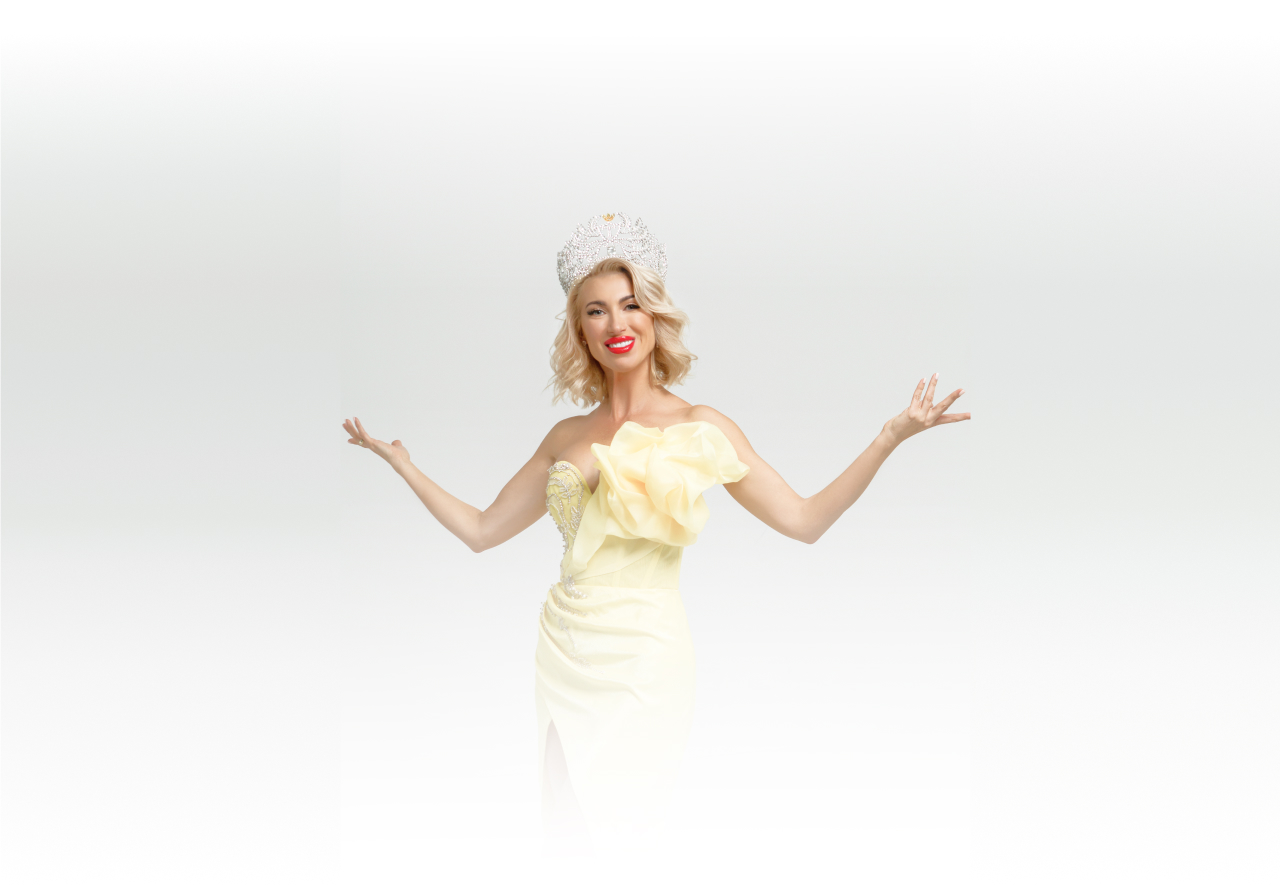
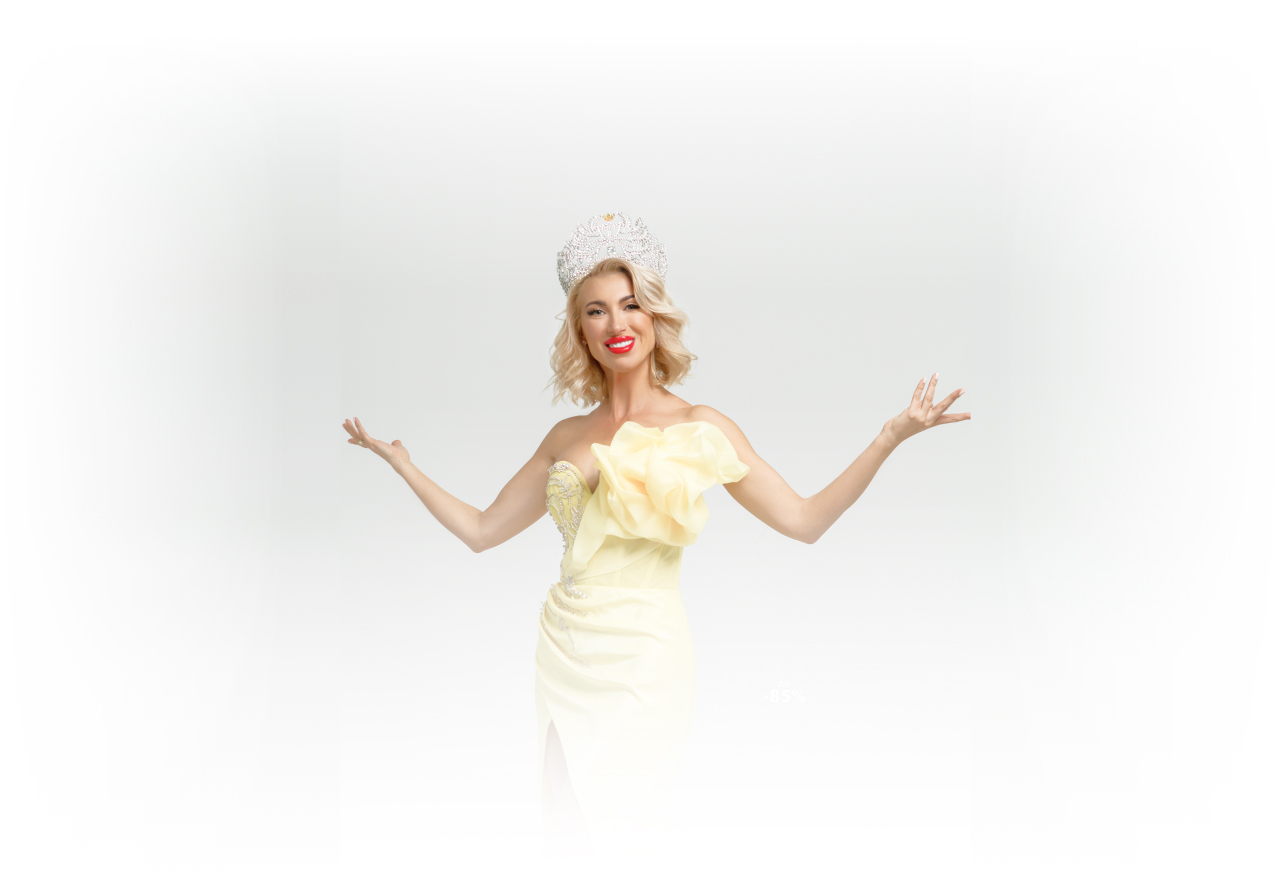
update bg images and footer links

Changed region(s): [[0.0, 0.2133, 0.0938, 0.6095], [0.9688, 0.3047, 1.0, 0.4876]]

diff --git a/index.html b/index.html
@@ -770,14 +770,27 @@
     <footer class="footer">
       <div class="container">
         <div class="footer-deals">
-          <a class="link" target="_blank" rel="nofollow" href=""
+          <a
+            class="link"
+            target="_blank"
+            rel="nofollow"
+            href="https://docs.google.com/document/d/1Hmw1FsmPEBwldCEDwg0LvOVN5a8oJckbykgEmNQICwI/edit?usp=sharing"
             >Договір оферта</a
-          ><a class="link" target="_blank" rel="nofollow" href=""
+          ><a
+            class="link"
+            target="_blank"
+            rel="nofollow"
+            href="https://docs.google.com/document/d/1gO9E59EHsQaLDXJgr1hZTJvAWlnz82-r5cY-q0cy3MQ/edit?usp=sharing"
             >Політика конфіденційності</a
           >
         </div>
         <div class="social-container">
-          <a class="link" href="" target="_blank" rel="nofollow">
+          <a
+            class="link"
+            href="https://www.instagram.com/natalyasentimrey"
+            target="_blank"
+            rel="nofollow"
+          >
             <img
               src="./images/footer-insta.svg"
               alt="insta"
@@ -799,7 +812,7 @@
               height="24"
           /></a>
         </div>
-        <a class="footer-mail link" href="mailto:svitlanasvik@gmail.com"
+        <a class="footer-mail link" href="mailto:nataliasentimreyyy@gmail.com"
           ><div class="footer-mail-container">
             <img
               src="./images/footer-mail.svg"
@@ -807,12 +820,12 @@
               width="20"
               height="15"
             />
-            <p>@gmail.com</p>
+            <p>nataliasentimreyyy@gmail.com</p>
           </div></a
         >
         <div class="fop-container">
-          <p>ФОП</p>
-          <p>ІПН</p>
+          <p>ФОП Сентімрей Наталія</p>
+          <p>ІПН 2949111627</p>
         </div>
         <a class="creator-link link" href="https://www.instagram.com/lllckui">
           <div class="creator-container">

diff --git a/css/styles.css b/css/styles.css
@@ -2216,7 +2216,8 @@ tbody tr:nth-child(3) td:nth-child(1) {
   background: #171717;
 }
 
-.footer-deals > a[href=''] {
+.footer-deals > a[href='https://docs.google.com/document/d/1Hmw1FsmPEBwldCEDwg0LvOVN5a8oJckbykgEmNQICwI/edit?usp=sharing']
+{
   margin-bottom: 12px;
 }
 
